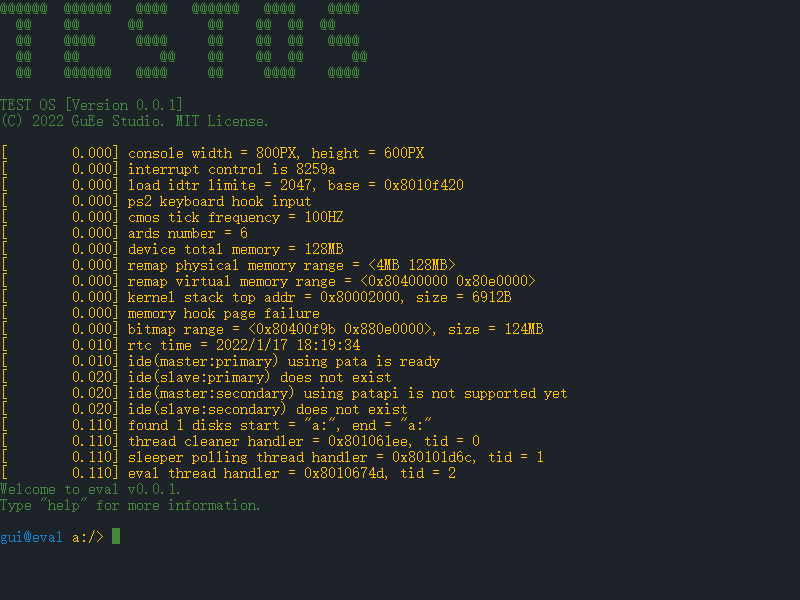
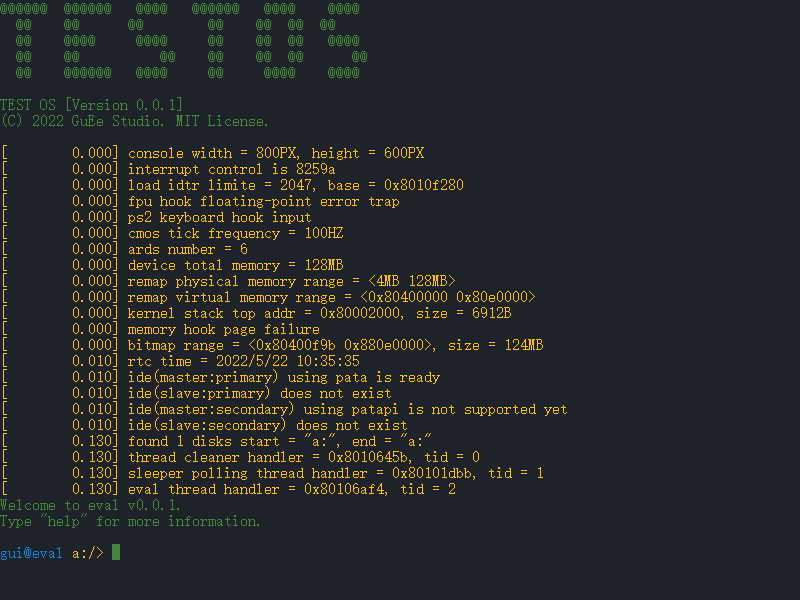
add fpu and other support

Changed region(s): [[0.0, 0.33, 0.7188, 0.93], [0.5625, 0.54, 0.5938, 0.6], [0.4688, 0.33, 0.5, 0.36]]

diff --git a/kernel/cmds.c b/kernel/cmds.c
@@ -4,6 +4,7 @@
 #include <disk.h>
 #include <eval.h>
 #include <interrupt.h>
+#include <io.h>
 #include <kernel.h>
 #include <malloc.h>
 #include <rtc.h>
@@ -14,6 +15,11 @@
 EVAL_VOID(cls, "Clear console")(int argc, char**argv)
 {
     console_cls();
+}
+
+EVAL_VOID(version, "Dump OS version")(int argc, char**argv)
+{
+    console_dump_version();
 }
 
 EVAL_VOID(powerdown, "Machine power down")(int argc, char**argv)
@@ -609,4 +615,50 @@ EVAL_VOID(popf, "Pop data from file")(int argc, char**argv)
     }
 
     disk_file_close(&file);
+}
+
+EVAL_VOID(graphic, "Graphic test")(int argc, char**argv)
+{
+    int i;
+    uint32_t width = get_screen_width();
+    uint32_t height = get_screen_height();
+    uint32_t x, y;
+    uint32_t colors[] =
+    {
+        RGB(0, 0, 0),
+        RGB(255, 0, 0),
+        RGB(0, 255, 0),
+        RGB(0, 0, 255),
+        RGB(255, 255, 255),
+    };
+
+    for (i = 0; i < ARRAY_SIZE(colors); ++i)
+    {
+        uint8_t r = RED(colors[i]);
+        uint8_t g = GREEN(colors[i]);
+        uint8_t b = BLUE(colors[i]);
+
+        for (x = 0; x < width; ++x)
+        {
+            for (y = 0; y < height; ++y)
+            {
+                put_pixel(x, y, r, g, b);
+            }
+        }
+
+        delay(500);
+    }
+
+    for (x = 0; x < width; ++x)
+    {
+        for (y = 0; y < height; ++y)
+        {
+            uint8_t r = soft_rand() & 0xff;
+            uint8_t g = soft_rand() & 0xff;
+            uint8_t b = soft_rand() & 0xff;
+            put_pixel(x, y, r, g, b);
+        }
+    }
+
+    return;
 }

diff --git a/kernel/memory.c b/kernel/memory.c
@@ -74,10 +74,26 @@ static inline void memory_remap()
     LOG("remap virtual memory range = <0x%p 0x%p>", KERNEL_MAP_BASE_VADDR + KERNEL_MAP_EARLY_SIZE, map_paddr - PAGE_SIZE);
 }
 
-void __attribute__((noreturn)) page_failure_isr(struct registers *regs)
+static void __attribute__((noreturn)) page_failure_isr(struct registers *regs)
 {
+    uint32_t faul_addr;
+    int present = !(regs->error_code & 0x1);    /* 页面不存在 */
+    int rw = regs->error_code & 0x2;            /* 写操作？ */
+    int us = regs->error_code & 0x4;            /* 处理器处于用户模式？ */
+    int reserved = regs->error_code & 0x8;      /* 页面条目的 CPU 保留位被覆盖？ */
+    int id = regs->error_code & 0x10;           /* 由取指令引起的？ */
+
+    __asm__ volatile ("mov %%cr2, %0" : "=r" (faul_addr));
+
     set_color(0x8250dfff, CONSOLE_CLEAR);
-    printk("page failure error\n");
+
+    printk("page failure error at 0x%p:\n", faul_addr);
+    printk("present = %c\n", present ? 'Y' : 'N');
+    printk("read-only = %c\n", rw ? 'Y' : 'N');
+    printk("user-mode = %c\n", us ? 'Y' : 'N');
+    printk("reserved = %c\n", reserved ? 'Y' : 'N');
+    printk("instruction-fetch = %c\n", id ? 'Y' : 'N');
+
     print_registers(regs);
     ASSERT(0);
 }

diff --git a/kernel/console.c b/kernel/console.c
@@ -19,6 +19,21 @@ static struct
 
 void init_console(uint32_t width, uint32_t height)
 {
+    console.width = width;
+    console.height = height;
+
+    console.max_x = (console.width / FONT_W) * FONT_W;
+    console.max_y = (console.height / FONT_H) * FONT_H;
+
+    set_color(console.fill, console.clear);
+    console_cls();
+    console_dump_version();
+
+    LOG("console width = %dPX, height = %dPX", console.width, console.height);
+}
+
+void console_dump_version(void)
+{
     int i, j, k = 0;
 
     /*
@@ -40,15 +55,6 @@ void init_console(uint32_t width, uint32_t height)
         0x78000000,
     };
 
-    console.width = width;
-    console.height = height;
-
-    console.max_x = (console.width / FONT_W) * FONT_W;
-    console.max_y = (console.height / FONT_H) * FONT_H;
-
-    set_color(console.fill, console.clear);
-    console_cls();
-
     for (i = 0; i < sizeof(logo) / sizeof(uint32_t); ++i)
     {
         for (j = 31; j >= 0; --j)
@@ -64,8 +70,6 @@ void init_console(uint32_t width, uint32_t height)
     }
 
     printk("\nTEST OS [Version %s]\n(C) %s %s. %s License.\n\n", OS_VERSION, OS_OWNER_YEAR, OS_OWNER_NAME, OS_LICENSE);
-
-    LOG("console width = %dPX, height = %dPX", console.width, console.height);
 }
 
 uint32_t get_console_cols(void)

diff --git a/kernel/eval.c b/kernel/eval.c
@@ -210,19 +210,22 @@ finsh:
             }
             cmdline_args[argc] = NULL;
 
-            while (node != NULL && node->magic == EVAL_VOID_MAGIC)
+            if (cmdline_args[0] != NULL)
             {
-                if (!strcmp(node->name, cmdline_args[0]))
+                while (node != NULL && node->magic == EVAL_VOID_MAGIC)
                 {
-                    node->handler(argc, cmdline_args);
-                    goto finsh;
+                    if (!strcmp(node->name, cmdline_args[0]))
+                    {
+                        node->handler(argc, cmdline_args);
+                        goto finsh;
+                    }
+                    ++node;
                 }
-                ++node;
-            }
 
-            set_color(EVAL_COLOR_ERROR, CONSOLE_CLEAR);
-            printk("`%s' is not defined\n", &cmdline_buffer[cmd_start_idx]);
-            set_color(CONSOLE_FILL, CONSOLE_CLEAR);
+                set_color(EVAL_COLOR_ERROR, CONSOLE_CLEAR);
+                printk("`%s' is not defined\n", &cmdline_buffer[cmd_start_idx]);
+                set_color(CONSOLE_FILL, CONSOLE_CLEAR);
+            }
         }
     }
 }

diff --git a/kernel/fpu.c b/kernel/fpu.c
@@ -1,0 +1,32 @@
+#include <fpu.h>
+#include <interrupt.h>
+#include <kernel.h>
+#include <types.h>
+
+static void __attribute__((noreturn)) fpu_isr(struct registers *regs)
+{
+    PANIC("fpu floating-point error");
+}
+
+void init_fpu()
+{
+    uint32_t reg_val;
+
+    __asm__ volatile ("clts");
+    __asm__ volatile ("mov %%cr0, %0":"=r"(reg_val));
+
+    reg_val &= ~(1 << 2);
+    reg_val |= (1 << 1);
+
+    __asm__ volatile ("mov %0, %%cr0"::"r"(reg_val));
+    __asm__ volatile ("mov %%cr4, %0":"=r"(reg_val));
+
+    reg_val |= 3 << 9;
+
+    __asm__ volatile ("mov %0, %%cr4"::"r"(reg_val));
+    __asm__ volatile ("fninit");
+
+    interrupt_register(16, fpu_isr);
+
+    LOG("fpu hook floating-point error trap");
+}

diff --git a/kernel/io.c b/kernel/io.c
@@ -1,4 +1,5 @@
 #include <io.h>
+#include <rtc.h>
 #include <thread.h>
 
 void pe_lock(pe_lock_t *lock)
@@ -34,4 +35,18 @@ void pe_unlock(pe_lock_t *lock)
 {
     /* 原子操作，解锁 */
     __asm__ volatile ("lock andl $0, %1":"=m"(*lock):"m"(*lock));
+}
+
+uint32_t soft_rand()
+{
+    static uint32_t next = 1;
+
+    next = next * 1103515245 + 12345;
+
+    return (uint32_t)(next / 65536) % 32768;
+}
+
+uint32_t hard_rand()
+{
+    return soft_rand() * (get_timestamp() % 10);
 }

diff --git a/kernel/start.c b/kernel/start.c
@@ -3,6 +3,7 @@
 #include <device.h>
 #include <disk.h>
 #include <eval.h>
+#include <fpu.h>
 #include <malloc.h>
 #include <memory.h>
 #include <interrupt.h>
@@ -18,6 +19,7 @@ void __attribute__((noreturn)) entry(void)
     init_console(get_screen_width(), get_screen_height());
     init_8259a();
     init_idt();
+    init_fpu();
     init_keyboard();
     init_timer();
     init_memory();

diff --git a/include/io.h b/include/io.h
@@ -31,6 +31,9 @@ typedef volatile uint32_t pe_lock_t;
 void pe_lock(pe_lock_t *lock);
 void pe_unlock(pe_lock_t *lock);
 
+uint32_t soft_rand();
+uint32_t hard_rand();
+
 extern void io_out8(uint32_t port, uint8_t data);
 extern void io_out16(uint32_t port, uint16_t data);
 extern void io_out32(uint32_t port, uint32_t data);

diff --git a/include/vbe.h b/include/vbe.h
@@ -25,6 +25,9 @@ struct color_bytes
 #define BLUE(x)     (((x) >>  8) & 0xff)
 #define ALPHA(x)    (((x) & 0xff))
 
+#define RGBA(r, g, b, a)    (((r) << 24) | ((g) << 16) | ((b) << 8) | 0xff)
+#define RGB(r, g, b)        RGBA(r, g, b, 0xff)
+
 #define FONT_W 8
 #define FONT_H 16
 

diff --git a/include/console.h b/include/console.h
@@ -10,6 +10,8 @@
 
 void init_console(uint32_t width, uint32_t height);
 
+void console_dump_version(void);
+
 uint32_t get_console_cols(void);
 uint32_t get_console_rows(void);
 

diff --git a/include/fpu.h b/include/fpu.h
@@ -1,0 +1,6 @@
+#ifndef _FPU_H_
+#define _FPU_H_
+
+void init_fpu();
+
+#endif /* _FPU_H_ */
